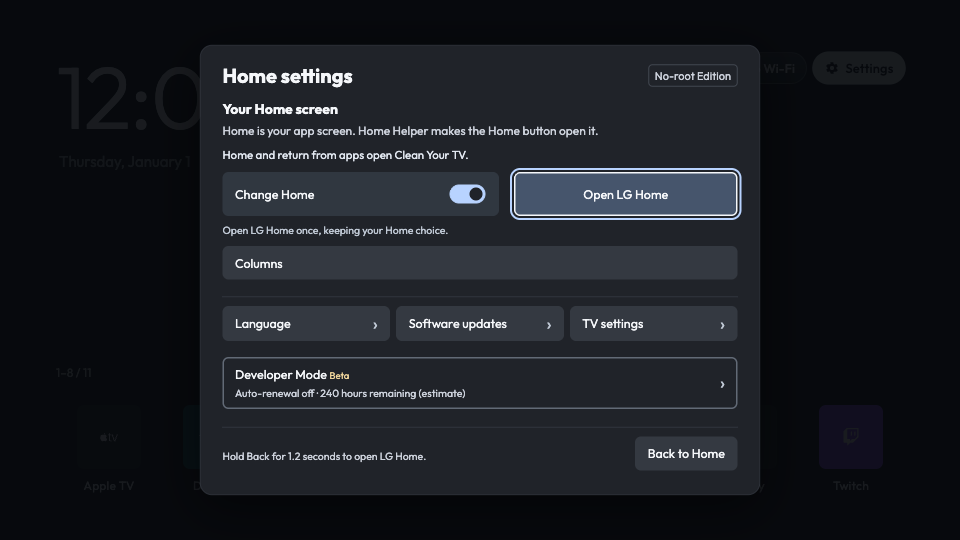
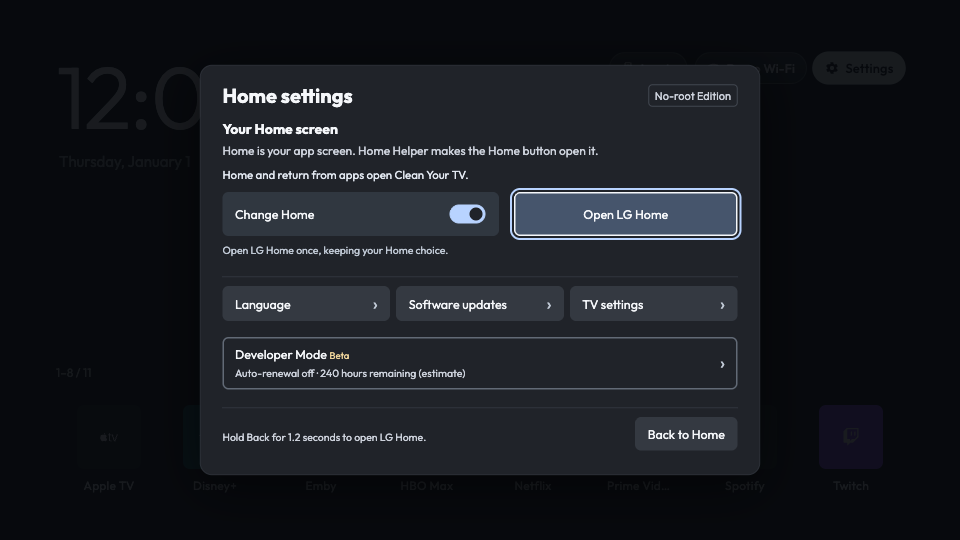
feat: demonstrate author-controlled fixed theme columns

diff --git a/examples/README.md b/examples/README.md
@@ -8,7 +8,9 @@ The live showcase includes three choices:
 | Classic | Original Home shelf and grid | 5 | Built into the renderer; uses trusted reset, no theme CSS copy |
 | [Channel](terminal/theme.css) | Blue teletext-style numbered list with a selected title | 1 | Editable example in `terminal/` |
 
-The TV user's explicit column choice overrides either default. Settings use the
+Classic and Channel allow the TV user to override their column defaults.
+Glasshouse fixes its author composition at eight columns and hides that setting;
+the saved user choice resumes when switching back to Classic or Channel. Settings use the
 standard trusted appearance. The `terminal` directory and Channel theme ID stay
 stable. Glasshouse is an independent interpretation of the Glasshouse Home composition.
 Its `scenic-grid` layout pages rows with Down/Up; Left/Right selects an app.
@@ -28,7 +30,7 @@ npm run theme -- showcase examples --runtime .runtime/candidate --port 8877
 
 Open **http://127.0.0.1:8877/**. Classic is selected initially. Click Glasshouse, Channel or
 Classic above the actual Home screen, then use the mouse or arrows/Enter inside
-it. Switching does not reload Home; app order and column overrides are retained.
+it. Switching does not reload Home; app order and saved column preferences are retained.
 App launches and TV services are simulated. Keep the terminal open; Ctrl+C stops
 the server. Save the selected theme's CSS to see validated changes live.
 
@@ -79,3 +81,15 @@ A local Chrome can be selected with `--browser-executable /absolute/path/to/chro
 Replace previews and provenance together after review. Demo icon sources and
 licenses are in [DEMO-ICON-CREDITS.txt](DEMO-ICON-CREDITS.txt),
 [DEMO-ICON-LICENSE.txt](DEMO-ICON-LICENSE.txt), and Channel's `CREDITS.txt`.
+
+## Fixed author layouts
+
+Set `layout.allowColumnOverride` to `false` in `theme.json` to hide the Columns
+setting and keep the author's column count. Omit it, or set `true`, to let users
+choose. Glasshouse demonstrates the fixed option; Channel remains adjustable.
+The saved user value is preserved across theme switches. This candidate field
+requires a freshly exported runtime with column-policy support.
+
+The flag controls user reflow, not arbitrary CSS coordinates. Choose a supported
+trusted preset for placement. The renderer continues to own remote navigation,
+focus and hit areas; external CSS controls the exposed visual parts.

diff --git a/docs/authoring.md b/docs/authoring.md
@@ -22,10 +22,10 @@ positioning, geometry transforms, hidden focus controls and unsupported features
 fail validation. Settings, confirmations and recovery remain standard.
 
 Layout belongs in `theme.json`, not arbitrary CSS: one of `dock-grid` (low shelf), `icon-grid` (compact square icons),
-`side-grid` (fixed sidebar and app grid) or `channel-list` (numbered rows),
+`side-grid` (fixed sidebar and app grid) `channel-list` (numbered rows) or `scenic-grid` (bottom scenic rows),
 columns 1–8,
 spacingScale 0.8–1.2, textScale 0.9–1.25 and focusScale 1.05–1.15. Dim is 0–0.85.
-Templates own geometry and remote hit areas. The TV user can override columns
+Templates own geometry and remote hit areas. Unless `allowColumnOverride` is false, the TV user can override columns
 within every template; narrow channel-list cells use a compact icon and label.
 In side-grid, Left from the first grid column enters the sidebar, Up/Down
 selects a shortcut, and Right returns to the grid.
@@ -70,3 +70,16 @@ In the `channel-list` preset, focus is painted directly on
 travelling `.ctv-focus` frame belongs to other layouts and stays hidden in the
 list. Channel row changes and scrolling are immediate, without a second zooming
 outline. Remote input keeps focus until actual pointer movement or a click.
+
+## Let the author keep a fixed composition
+
+Set `layout.allowColumnOverride: false` in `theme.json` for a preset whose
+column count is part of the intended design. The TV hides Columns and uses
+`layout.columns`. Classic and themes omitting the flag keep that setting.
+The user's saved value returns when switching to an adjustable theme; it is
+never overwritten by a fixed theme. The current Glasshouse example demonstrates
+this flag. Use a runtime with column-policy support; older candidates reject it.
+
+The flag does not unlock arbitrary CSS positioning. Templates still own card
+coordinates, focus, pointer hit areas and remote navigation. New placement
+patterns need a trusted renderer preset rather than theme JavaScript.

diff --git a/docs/glasshouse-review.md b/docs/glasshouse-review.md
@@ -5,7 +5,9 @@ large light Outfit clock, warm white text, small square app icons, quiet outline
 selection and a scenic background. No upstream logo or executable code is bundled.
 
 The theme uses the renderer-owned `scenic-grid` preset, with eight columns by
-default. An explicit user column choice still wins. Left/Right selects within a
+default. The author fixes this layout at eight columns with
+`allowColumnOverride: false`; the Columns setting is hidden. Saved user choices
+resume for Classic and Channel. Left/Right selects within a
 row; Down/Up pages rows. The page range appears above the icons. The clock stays
 fixed. Rearranging lifts icons above the trusted controls. Settings retain their
 standard appearance. Classic and Channel remain available through the same picker.
@@ -16,9 +18,14 @@ suite passed 21 checks including compilation and missing-icon/Add-app contrast.
 Home, Inputs and Settings captures use synthetic data; see
 `examples/glasshouse/previews/provenance.json`. The Home PNG is palette-compressed
 to meet the 300 KiB descriptor budget; composition and dimensions are unchanged.
-Runtime source: `4bbc4227b01c0e388a5f6851845109345b8dd1cc`, candidate export.
+Runtime source: `1d0cb46fb08dfdbc767e4bfeee05a138028ede88`, candidate export.
 
 The panorama is Hannes Röst's Fronalpstock, CC BY-SA 3.0; see the theme credits
 and license. Wallpaper remains under its own license; theme code is MIT.
 No physical TV, remote, firmware or webOS build was tested. Real launches,
 installation, sound, standby, cold boot, OTA and rollback remain untested.
+
+Column-policy follow-up: the on-TV entry is hidden in both editions for fixed
+themes, direct opening is blocked, an already-open picker closes safely, and
+Classic restores the saved user value. Main TV and preview groups passed; the
+21 toolkit checks passed with fixed Glasshouse and adjustable Channel.

diff --git a/README.md b/README.md
@@ -18,7 +18,8 @@ npm run theme -- showcase examples --runtime .runtime/candidate --port 8877
 
 Open **http://127.0.0.1:8877/**. Select a theme above the screen, then use the
 mouse or arrows/Enter inside Home. Switching uses the same renderer without
-reloading it; app order and the column override are retained. Apps and TV
+reloading it; app order and the saved column preference are retained.
+Themes may fix their own layout and temporarily suspend the column override. Apps and TV
 services are simulated. Keep the terminal open; Ctrl+C stops the local server.
 This is a local candidate showcase, not a published community catalog.
 
